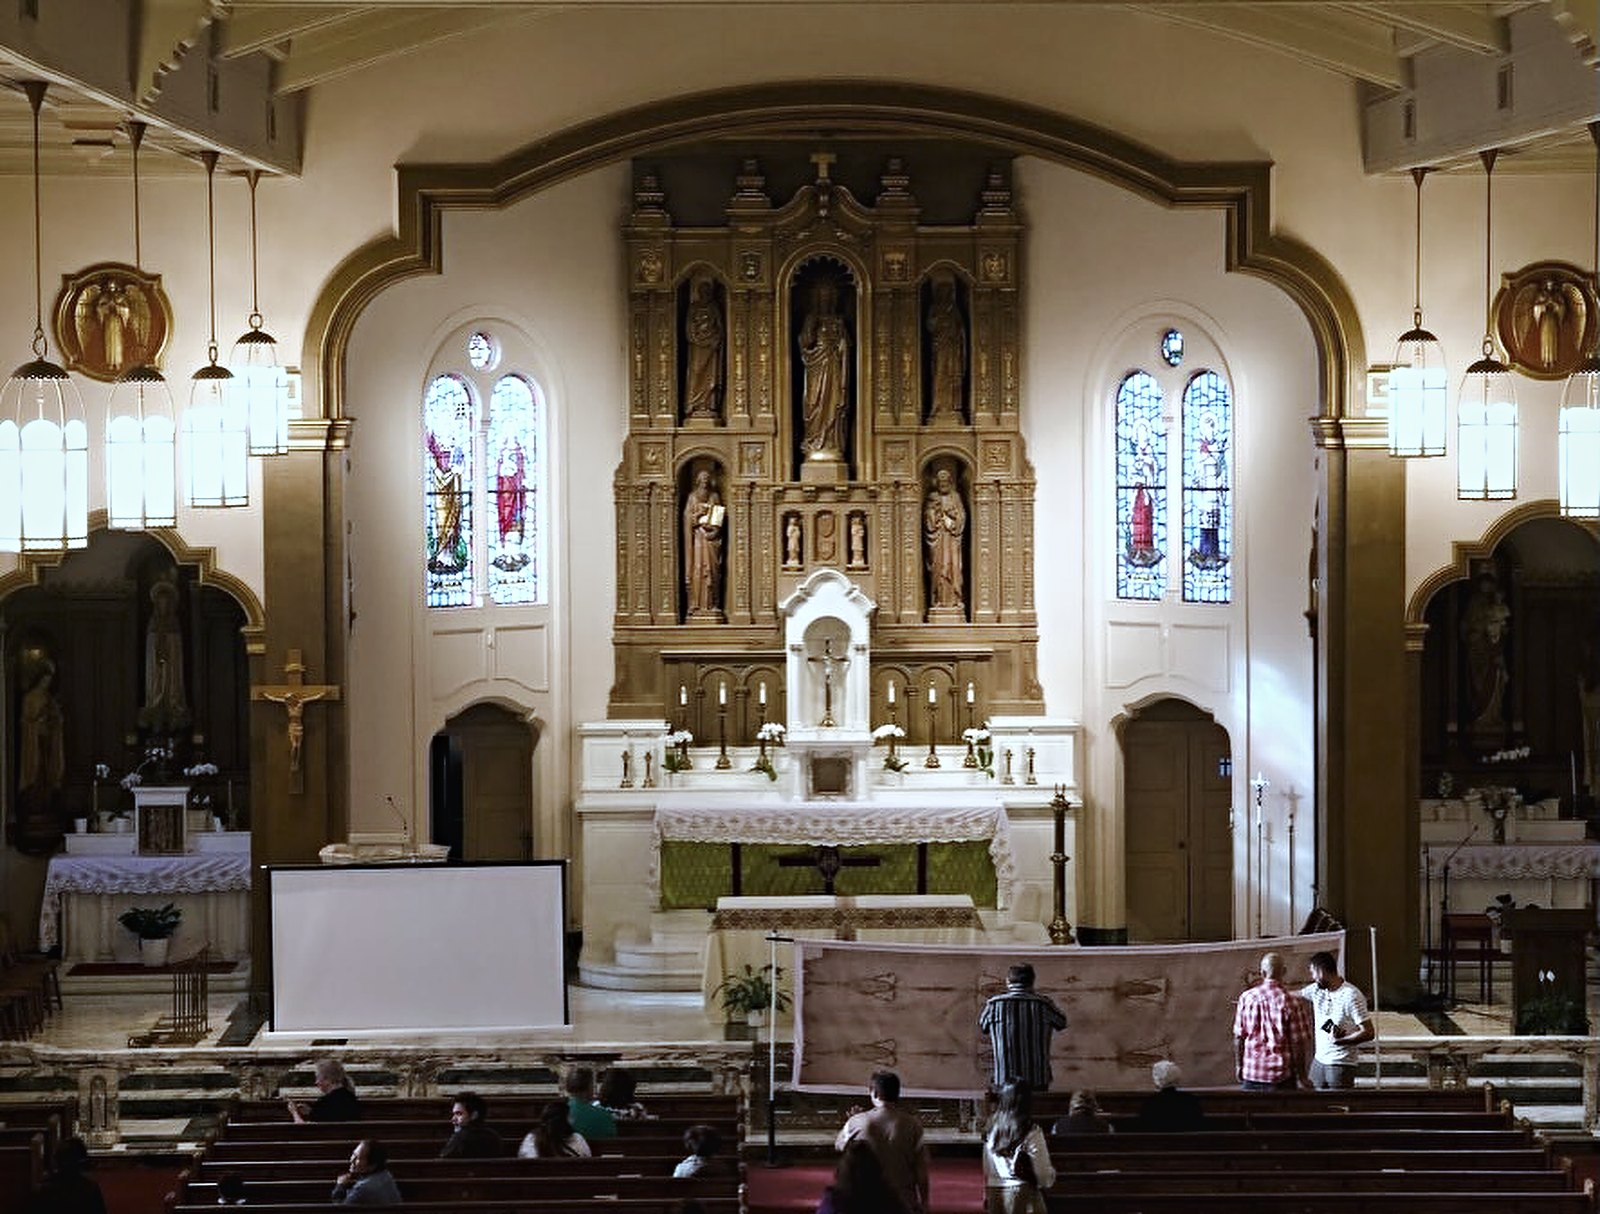
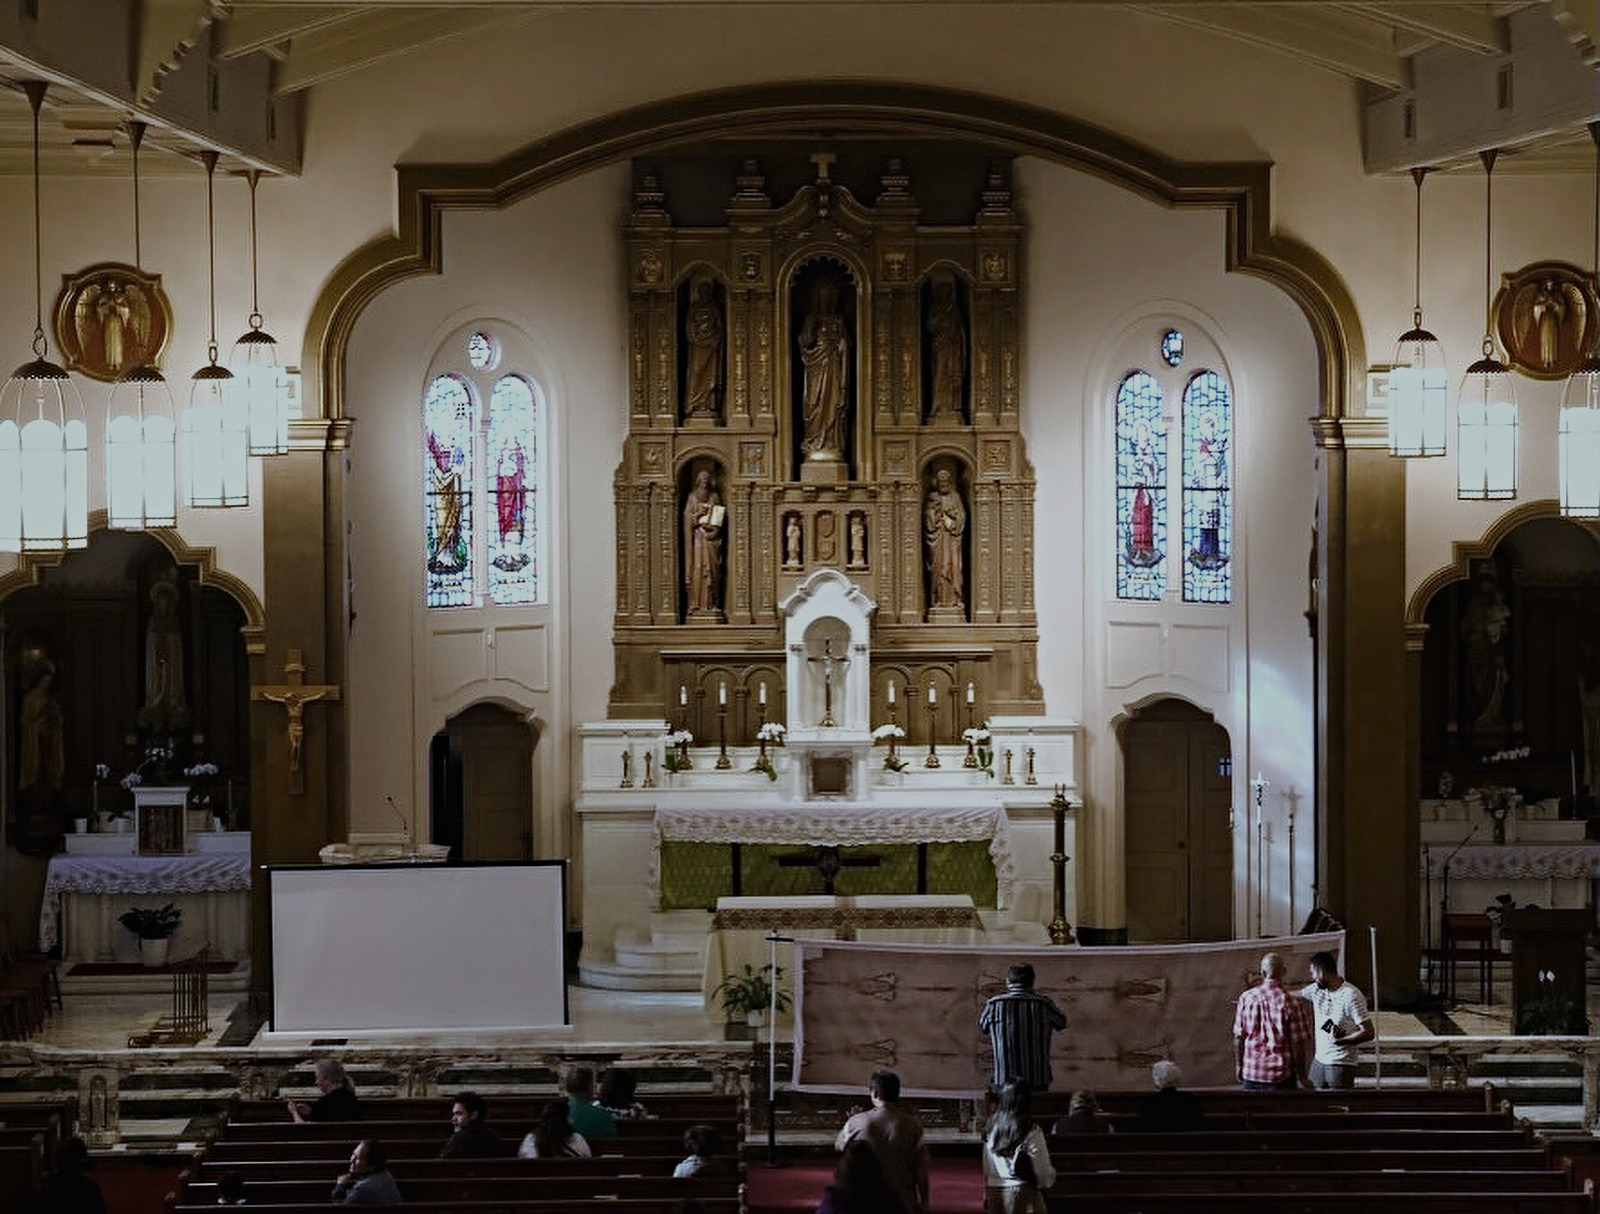
Publish site

diff --git a/styles.css b/styles.css
@@ -1183,8 +1183,16 @@ picture{display:contents}
    wipe is a real edge, and --veil still does the one job it was written for:
    the section closes darker than it opens. --pw is the plate's own weight,
    folded into the same number. */
+/* NO FILTER. filter:brightness() on a full-viewport <video> was the single
+   largest cost in the site's worst-performing section: the manifesto ran at
+   p50 41ms with 40 of 70 frames over 33ms, and removing the filter alone
+   measured 21ms. A filter on a video re-runs on every video frame AND every
+   scroll frame, and a static filter on the two still plates was no cheaper
+   because their mask and transform change every frame too.
+   The dynamic veil is a black overlay on the card now — a plain composite —
+   at opacity 1 − veil, and the per-plate weight is baked into the plate files
+   in linear light. Same picture, one filter pass fewer per frame. */
 .believe-card>video,.believe-card img.bplate{opacity:var(--pv,0);
-  filter:brightness(calc(var(--veil,.9) * var(--pw,1)));
   transform:scale(calc(var(--cam,1) * var(--pz,1))) translate3d(0,calc(var(--camy,0) * 1%),0);
   transform-origin:50% 42%;will-change:opacity,transform}
 /* --pz and --px/--py are per-plate framing, set in the markup beside the file
@@ -1212,6 +1220,14 @@ picture{display:contents}
   -webkit-mask:radial-gradient(155% 46% at 50% 47%,transparent 0%,transparent 34%,#000 100%);
   mask:radial-gradient(155% 46% at 50% 47%,transparent 0%,transparent 34%,#000 100%);
 }
+/* THE VEIL is a real element, not a pseudo — both of the card's pseudos were
+   already spoken for (::before is the vignette, ::after the hairline frame),
+   and a second ::after rule merged into the frame's and lost on opacity.
+   main.js writes --veil from 0.92 down to 0.74 across the traverse, so the
+   section closes darker than it opens; this is where that lands now that it
+   is no longer a filter. z-index 1 with the vignette, under the body at 2. */
+.believe-veil{position:absolute;inset:0;z-index:1;pointer-events:none;background:#000;
+  opacity:calc(1 - var(--veil,.9))}
 .believe-body{position:relative;z-index:2;display:grid;justify-items:center;gap:24px;text-align:center;padding:0 6vw;opacity:var(--o,1)}
 /* The eyebrow's own shade. .believe-lines::before gives the statements one
    because they sit over moving footage; the eyebrow sits over the same footage

diff --git a/index.html b/index.html
@@ -290,7 +290,7 @@
       <picture>
         <source type="image/webp" sizes="(max-width:700px) 370vw, 138vw"
                 srcset="assets/img/nave-800.webp 800w, assets/img/nave-1100.webp 1100w, assets/img/nave-1440.webp 1440w, assets/img/nave-2000.webp 2000w, assets/img/nave-2400.webp 2400w">
-        <img class="bplate" data-in="0.30" data-out="0.52" data-w="0.58" style="--pz:1.52;--px:34%;--py:58%" alt="" aria-hidden="true" decoding="async" loading="lazy"
+        <img class="bplate" data-in="0.30" data-out="0.52" style="--pz:1.52;--px:34%;--py:58%" alt="" aria-hidden="true" decoding="async" loading="lazy"
              width="2400" height="1821" src="assets/img/nave-1440.jpg"
              srcset="assets/img/nave-800.jpg 800w, assets/img/nave-1100.jpg 1100w, assets/img/nave-1440.jpg 1440w, assets/img/nave-2000.jpg 2000w, assets/img/nave-2400.jpg 2400w"
              sizes="(max-width:700px) 370vw, 138vw">
@@ -298,11 +298,12 @@
       <picture>
         <source type="image/webp" sizes="(max-width:700px) 370vw, 138vw"
                 srcset="assets/img/shroud-stand-780.webp 780w, assets/img/shroud-stand-1000.webp 1000w, assets/img/shroud-stand-1420.webp 1420w, assets/img/shroud-stand-1600.webp 1600w, assets/img/shroud-stand-1774.webp 1774w">
-        <img class="bplate" data-in="0.72" data-out="0.92" data-w="0.72" style="--pz:1.22;--px:38%;--py:52%" alt="" aria-hidden="true" decoding="async" loading="lazy"
+        <img class="bplate" data-in="0.72" data-out="0.92" style="--pz:1.22;--px:38%;--py:52%" alt="" aria-hidden="true" decoding="async" loading="lazy"
              width="1774" height="1235" src="assets/img/shroud-stand-1420.jpg"
              srcset="assets/img/shroud-stand-780.jpg 780w, assets/img/shroud-stand-1000.jpg 1000w, assets/img/shroud-stand-1420.jpg 1420w, assets/img/shroud-stand-1600.jpg 1600w, assets/img/shroud-stand-1774.jpg 1774w"
              sizes="(max-width:700px) 370vw, 138vw">
       </picture>
+      <div class="believe-veil" aria-hidden="true"></div>
       <div class="believe-body" id="believeBody">
         <p class="eyebrow">We believe in</p>
         <div class="believe-lines" id="believeLines">

diff --git a/main.js b/main.js
@@ -568,7 +568,6 @@
        it — and it is written once here rather than every frame. */
     const plates = qa('[data-at],[data-in]', card);
     plates.forEach(el => {
-      if (el.dataset.w) el.style.setProperty('--pw', el.dataset.w);
     });
 
     const mBelieve = track(believe), mCard = track(card), mDuo = duo ? track(duo) : null;
